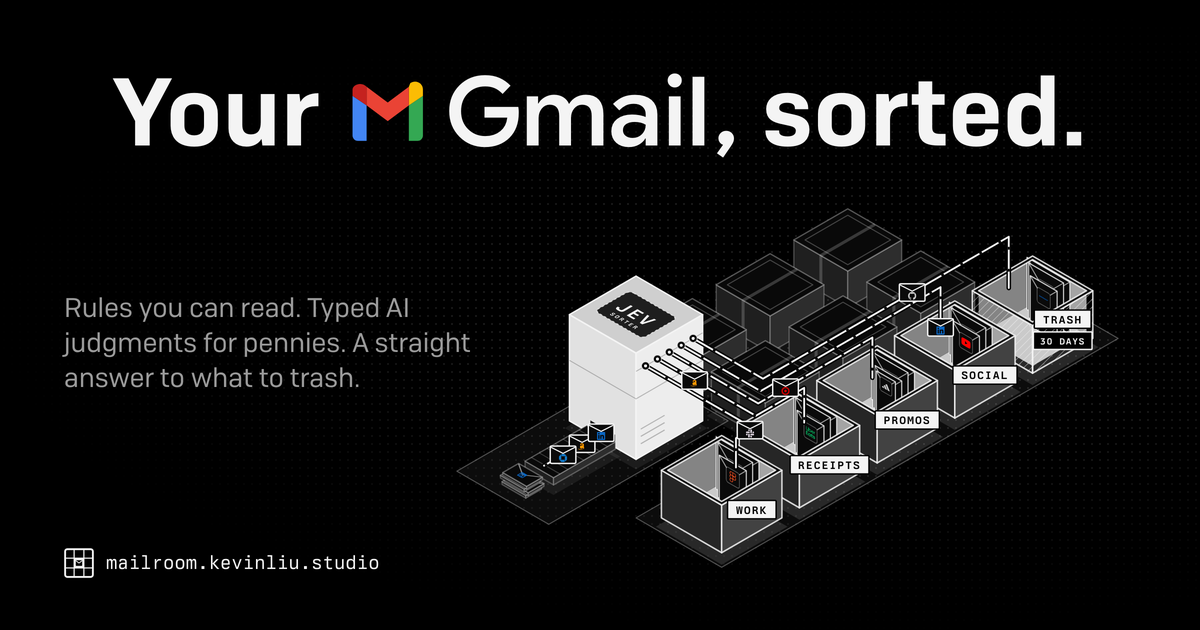
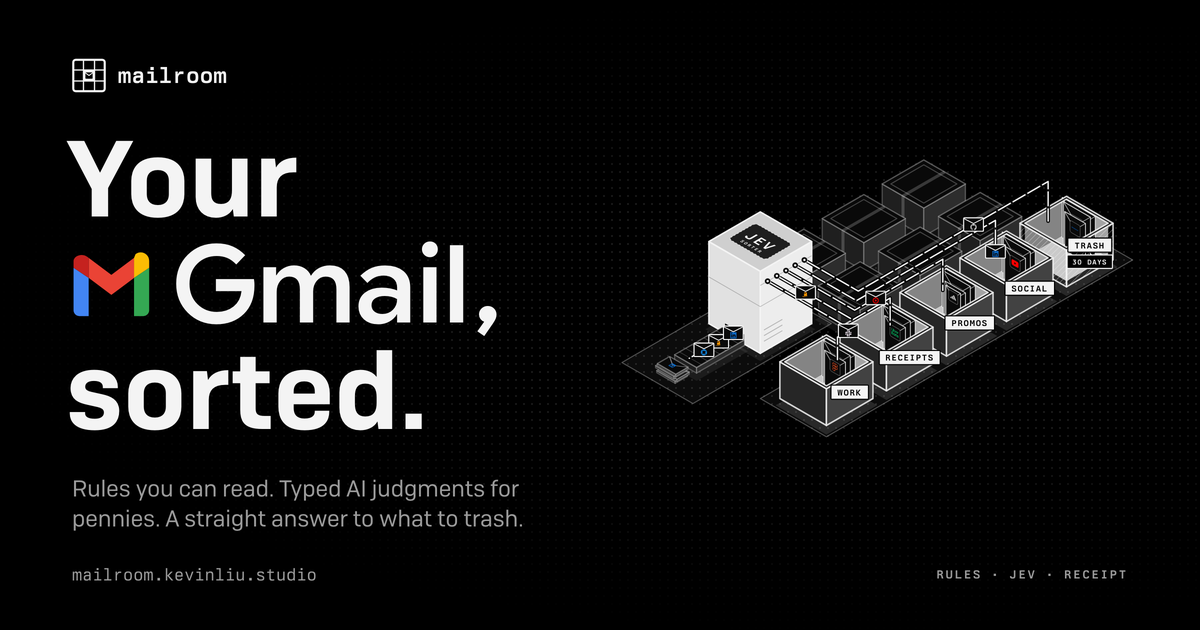
Share image gets its own layout: stacked headline and wordmark left, the sorter right

diff --git a/src/app/og/page.tsx b/src/app/og/page.tsx
@@ -18,18 +18,27 @@ export default function OgPage() {
         style={{ width: 1200, minWidth: 1200, height: 630, background: "var(--page)", color: "var(--ink)", outline: "4px solid #ff00ff", outlineOffset: 0, ...DARK }}
       >
         <div className="dither" aria-hidden="true" />
-        <h1 className="absolute left-0 right-0 m-0 text-center font-semibold leading-none" style={{ top: 64, fontSize: 96, letterSpacing: "0.01em", whiteSpace: "nowrap" }}>
-          Your <GmailMark className="ml-[.04em] mr-[.16em] inline-block h-[.88em] w-[.88em] align-[-.1em]" /><span className="gmail-word">Gmail,</span> sorted.
+        {/* left: the name, a three-line headline, one line of lede, the address */}
+        <div className="absolute flex items-center gap-3" style={{ left: 72, top: 58 }}>
+          <BrandMark size={34} />
+          <span className="font-mono text-[22px] font-bold tracking-[.02em]">mailroom</span>
+        </div>
+        <h1 className="absolute m-0 font-semibold" style={{ left: 66, top: 126, fontSize: 108, lineHeight: 0.98, letterSpacing: "0.005em", whiteSpace: "nowrap" }}>
+          Your
+          <br />
+          <GmailMark className="mr-[.14em] inline-block h-[.84em] w-[.84em] align-[-.08em]" /><span className="gmail-word">Gmail,</span>
+          <br />
+          sorted.
         </h1>
-        <p className="absolute m-0 text-muted" style={{ left: 64, top: 290, width: 420, fontSize: 27, lineHeight: 1.3 }}>
+        <p className="absolute m-0 text-muted" style={{ left: 72, top: 474, width: 470, fontSize: 23, lineHeight: 1.3 }}>
           Rules you can read. Typed AI judgments for pennies. A straight answer to what to trash.
         </p>
-        <div className="absolute flex items-center gap-3 font-mono text-[19px]" style={{ left: 64, bottom: 52 }}>
-          <BrandMark size={30} /> mailroom.kevinliu.studio
-        </div>
-        <div className="absolute" style={{ right: 36, top: 196, width: 720 }}>
+        <div className="absolute font-mono text-[17px] text-muted" style={{ left: 72, bottom: 42 }}>mailroom.kevinliu.studio</div>
+        {/* right: the machine, with the three beats under it */}
+        <div className="absolute" style={{ left: 612, top: 150, width: 556 }}>
           <HeroScene />
         </div>
+        <div className="absolute font-mono text-[12px] font-bold uppercase tracking-[.16em] text-muted" style={{ right: 72, bottom: 46 }}>Rules · Jev · Receipt</div>
       </div>
     </div>
   );
